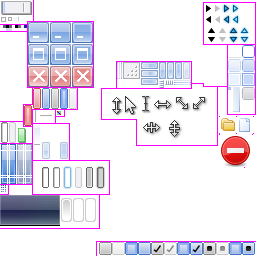
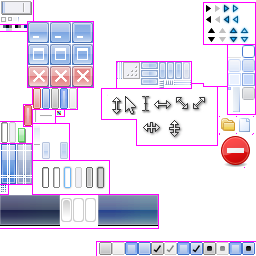
misc

Changed region(s): [[0.375, 0.75, 0.625, 0.9062]]

diff --git a/api/gui.cpp b/api/gui.cpp
@@ -168,6 +168,8 @@ static UIImage menuItemHover		= {{42, 50, 142, 159}, {45, 46, 151, 157}, OS_DRAW
 static UIImage menuItemDragged		= {{18 + 42, 18 + 50, 142, 159}, {18 + 45, 18 + 46, 151, 157}, OS_DRAW_MODE_STRECH};
 
 static UIImage toolbarBackground	= {{0, 0 + 60, 195, 195 + 31}, {0 + 1, 0 + 59, 195 + 1, 195 + 29}, OS_DRAW_MODE_STRECH};
+static UIImage toolbarBackgroundAlt	= {{98 + 0, 98 + 0 + 60, 195, 195 + 31}, {98 + 0 + 1, 98 + 0 + 59, 195 + 1, 195 + 29}, OS_DRAW_MODE_STRECH};
+
 static UIImage toolbarHover		= {{73, 84, 195, 226}, {78, 79, 203, 204}};
 static UIImage toolbarPressed		= {{73 - 12, 84 - 12, 195, 226}, {78 - 12, 79 - 12, 203, 204}};
 static UIImage toolbarNormal		= {{73 + 12, 84 + 12, 195, 226}, {78 + 12, 79 + 12, 203, 204}};
@@ -1441,6 +1443,8 @@ OSCallbackResponse ProcessTextboxMessage(OSObject object, OSMessage *message) {
 
 		int ic = -1, isc = -1;
 
+		result = OS_CALLBACK_HANDLED;
+
 		switch (message->keyboard.scancode) {
 			case OS_SCANCODE_A: ic = 'a'; isc = 'A'; break;
 			case OS_SCANCODE_B: ic = 'b'; isc = 'B'; break;
@@ -1583,6 +1587,10 @@ OSCallbackResponse ProcessTextboxMessage(OSObject object, OSMessage *message) {
 				message.type = OS_MESSAGE_END_LAST_FOCUS;
 				OSSendMessage(control, &message);
 				control->window->lastFocus = nullptr;
+			} break;
+
+			default: {
+				result = OS_CALLBACK_NOT_HANDLED;
 			} break;
 		}
 
@@ -3095,6 +3103,30 @@ static OSCallbackResponse ProcessGridMessage(OSObject _object, OSMessage *messag
 			}
 		} break;
 
+		case OS_MESSAGE_KEY_PRESSED: {
+			if (message->keyboard.scancode == OS_SCANCODE_TAB && !message->keyboard.shift && !message->keyboard.ctrl && !message->keyboard.alt) {
+				OSObject previousFocus = message->keyboard.notHandledBy;
+				uintptr_t i = 0;
+
+				for (; i < grid->columns * grid->rows; i++) {
+					if (grid->objects[i] == previousFocus) {
+						break;
+					}
+				}
+
+				if (i == grid->columns * grid->rows) {
+					i = 0;
+
+					if (grid->columns * grid->rows == 0) {
+						response = OS_CALLBACK_NOT_HANDLED;
+						break;
+					}
+				}
+
+				// TODO Tab traversal.
+			}
+		} break;
+
 		default: {
 			response = OS_CALLBACK_NOT_HANDLED;
 		} break;
@@ -3172,6 +3204,14 @@ OSObject OSCreateGrid(unsigned columns, unsigned rows, OSGridStyle style) {
 			grid->preferredHeight = 31;
 			grid->suggestHeight = true;
 			grid->background = &toolbarBackground;
+		} break;
+
+		case OS_GRID_STYLE_TOOLBAR_ALT: {
+			grid->borderSize = OS_MAKE_RECTANGLE(5, 5, 0, 0);
+			grid->gapSize = 4;
+			grid->preferredHeight = 31;
+			grid->suggestHeight = true;
+			grid->background = &toolbarBackgroundAlt;
 		} break;
 	}
 
@@ -3631,7 +3671,7 @@ OSObject OSCreateScrollbar(bool orientation) {
 	nudgeUp->context = scrollbar;
 	nudgeUp->notificationCallback = OS_MAKE_CALLBACK(ScrollbarButtonPressed, SCROLLBAR_NUDGE_UP);
 	nudgeUp->backgrounds = orientation ? scrollbarTrackVerticalBackgrounds : scrollbarTrackHorizontalBackgrounds;
-	OSSetCallback(nudgeUp, OS_MAKE_CALLBACK(ProcessControlMessage, nullptr));
+	OSSetCallback(nudgeUp, OS_MAKE_CALLBACK(ProcessButtonMessage, nullptr));
 
 	command.callback = OS_MAKE_CALLBACK(ScrollbarButtonPressed, SCROLLBAR_NUDGE_DOWN);
 	Control *nudgeDown = (Control *) OSHeapAllocate(sizeof(Control), true);
@@ -3639,7 +3679,7 @@ OSObject OSCreateScrollbar(bool orientation) {
 	nudgeDown->context = scrollbar;
 	nudgeDown->notificationCallback = OS_MAKE_CALLBACK(ScrollbarButtonPressed, SCROLLBAR_NUDGE_DOWN);
 	nudgeDown->backgrounds = orientation ? scrollbarTrackVerticalBackgrounds : scrollbarTrackHorizontalBackgrounds;
-	OSSetCallback(nudgeDown, OS_MAKE_CALLBACK(ProcessControlMessage, nullptr));
+	OSSetCallback(nudgeDown, OS_MAKE_CALLBACK(ProcessButtonMessage, nullptr));
 
 	command.callback = OS_MAKE_CALLBACK(ScrollbarButtonPressed, SCROLLBAR_BUTTON_UP);
 	Control *up = (Control *) OSCreateButton(&command, OS_BUTTON_STYLE_NORMAL);
@@ -3777,8 +3817,6 @@ static OSCallbackResponse ProcessWindowMessage(OSObject _object, OSMessage *mess
 		} break;
 
 		case OS_MESSAGE_WINDOW_ACTIVATED: {
-			if (!window->created) break;
-
 			for (int i = 0; i < 12; i++) {
 				if (i == 7 || (window->flags & OS_CREATE_WINDOW_MENU)) continue;
 				OSDisableControl(window->root->objects[i], false);
@@ -3793,8 +3831,6 @@ static OSCallbackResponse ProcessWindowMessage(OSObject _object, OSMessage *mess
 		} break;
 
 		case OS_MESSAGE_WINDOW_DEACTIVATED: {
-			if (!window->created) break;
-
 			for (int i = 0; i < 12; i++) {
 				if (i == 7 || (window->flags & OS_CREATE_WINDOW_MENU)) continue;
 				OSDisableControl(window->root->objects[i], true);
@@ -3830,7 +3866,21 @@ static OSCallbackResponse ProcessWindowMessage(OSObject _object, OSMessage *mess
 				EnterDebugger();
 			} else if (window->focus) {
 				message->type = OS_MESSAGE_KEY_TYPED;
-				OSSendMessage(window->focus, message);
+				OSCallbackResponse response = OSSendMessage(window->focus, message);
+
+				Control *control = window->focus;
+				message->keyboard.notHandledBy = nullptr;
+
+				while (response == OS_CALLBACK_NOT_HANDLED && control) {
+					message->type = OS_MESSAGE_KEY_PRESSED;
+					response = OSSendMessage(window->focus, message);
+					message->keyboard.notHandledBy = control;
+					control = (Control *) control->parent;
+				}
+
+				if (response == OS_CALLBACK_NOT_HANDLED) {
+					// TODO Keyboard shortcuts and access keys.
+				}
 			}
 		} break;
 

diff --git a/file_manager/main.cpp b/file_manager/main.cpp
@@ -13,6 +13,7 @@
 #include "../bin/OS/file_manager.manifest.h"
 
 // TODO Move the scrollbar to the top when switching folders.
+// TODO Closing instances.
 
 struct FolderChild {
 	OSDirectoryChild data;
@@ -744,15 +745,17 @@ void Instance::Initialise() {
 	window = OSCreateWindow(mainWindow);
 	OSSetInstance(window, this);
 
-	OSObject rootLayout = OSCreateGrid(1, 4, OS_GRID_STYLE_LAYOUT);
+	OSObject rootLayout = OSCreateGrid(1, 6, OS_GRID_STYLE_LAYOUT);
 	OSObject contentSplit = OSCreateGrid(3, 1, OS_GRID_STYLE_LAYOUT);
-	OSObject toolbar = OSCreateGrid(6, 1, OS_GRID_STYLE_TOOLBAR);
+	OSObject toolbar1 = OSCreateGrid(5, 1, OS_GRID_STYLE_TOOLBAR);
+	OSObject toolbar2 = OSCreateGrid(1, 1, OS_GRID_STYLE_TOOLBAR_ALT);
 	OSObject statusBar = OSCreateGrid(2, 1, OS_GRID_STYLE_STATUS_BAR);
 
 	OSSetRootGrid(window, rootLayout);
-	OSAddGrid(rootLayout, 0, 2, contentSplit, OS_CELL_FILL);
-	OSAddGrid(rootLayout, 0, 0, toolbar, OS_CELL_H_EXPAND | OS_CELL_H_PUSH);
-	OSAddGrid(rootLayout, 0, 3, statusBar, OS_CELL_H_EXPAND | OS_CELL_H_PUSH);
+	OSAddGrid(rootLayout, 0, 3, contentSplit, OS_CELL_FILL);
+	OSAddGrid(rootLayout, 0, 0, toolbar1, OS_CELL_H_EXPAND | OS_CELL_H_PUSH);
+	OSAddGrid(rootLayout, 0, 1, toolbar2, OS_CELL_H_EXPAND | OS_CELL_H_PUSH);
+	OSAddGrid(rootLayout, 0, 5, statusBar, OS_CELL_H_EXPAND | OS_CELL_H_PUSH);
 
 	bookmarkList = OSCreateListView(OS_CREATE_LIST_VIEW_SINGLE_SELECT);
 	OSAddControl(contentSplit, 0, 0, bookmarkList, OS_CELL_H_EXPAND | OS_CELL_V_EXPAND);
@@ -768,20 +771,21 @@ void Instance::Initialise() {
 	OSAddControl(contentSplit, 1, 0, OSCreateLine(OS_ORIENTATION_VERTICAL), OS_CELL_V_EXPAND | OS_CELL_V_PUSH);
 
 	OSObject backButton = OSCreateButton(commandNavigateBackwards, OS_BUTTON_STYLE_TOOLBAR);
-	OSAddControl(toolbar, 0, 0, backButton, OS_CELL_V_CENTER | OS_CELL_V_PUSH);
+	OSAddControl(toolbar1, 0, 0, backButton, OS_CELL_V_CENTER | OS_CELL_V_PUSH);
 	OSObject forwardButton = OSCreateButton(commandNavigateForwards, OS_BUTTON_STYLE_TOOLBAR_ICON_ONLY);
-	OSAddControl(toolbar, 1, 0, forwardButton, OS_CELL_V_CENTER | OS_CELL_V_PUSH);
+	OSAddControl(toolbar1, 1, 0, forwardButton, OS_CELL_V_CENTER | OS_CELL_V_PUSH);
 	OSObject parentButton = OSCreateButton(commandNavigateParent, OS_BUTTON_STYLE_TOOLBAR_ICON_ONLY);
-	OSAddControl(toolbar, 2, 0, parentButton, OS_CELL_V_CENTER | OS_CELL_V_PUSH);
+	OSAddControl(toolbar1, 2, 0, parentButton, OS_CELL_V_CENTER | OS_CELL_V_PUSH);
 
 	folderPath = OSCreateTextbox(OS_TEXTBOX_STYLE_COMMAND);
 	OSSetControlCommand(folderPath, commandNavigatePath);
-	OSAddControl(toolbar, 3, 0, folderPath, OS_CELL_H_EXPAND | OS_CELL_H_PUSH | OS_CELL_V_CENTER | OS_CELL_V_PUSH);
+	OSAddControl(toolbar1, 3, 0, folderPath, OS_CELL_H_EXPAND | OS_CELL_H_PUSH | OS_CELL_V_CENTER | OS_CELL_V_PUSH);
 
 	OSObject bookmarkFolderButton = OSCreateButton(commandBookmarkFolder, OS_BUTTON_STYLE_TOOLBAR_ICON_ONLY);
-	OSAddControl(toolbar, 4, 0, bookmarkFolderButton, OS_CELL_V_CENTER | OS_CELL_V_PUSH);
+	OSAddControl(toolbar1, 4, 0, bookmarkFolderButton, OS_CELL_V_CENTER | OS_CELL_V_PUSH);
+
 	OSObject newFolderButton = OSCreateButton(commandNewFolder, OS_BUTTON_STYLE_TOOLBAR);
-	OSAddControl(toolbar, 5, 0, newFolderButton, OS_CELL_V_CENTER | OS_CELL_V_PUSH);
+	OSAddControl(toolbar2, 0, 0, newFolderButton, OS_CELL_V_CENTER | OS_CELL_V_PUSH);
 
 	statusLabel = OSCreateLabel(OSLiteral(""));
 	OSAddControl(statusBar, 1, 0, statusLabel, OS_FLAGS_DEFAULT);

diff --git a/util/manifest_parser.cpp b/util/manifest_parser.cpp
@@ -327,6 +327,14 @@ void GenerateDefinitions(Token attribute, Token section, Token name, Token value
 				fprintf(output, "\t.shortcutBytes = 0,\n");
 			}
 
+			if (FindProperty("access", &value)) {
+				fprintf(output, "\t.access = (char *) %.*s,\n", value.bytes, value.text);
+				fprintf(output, "\t.accessBytes = %d,\n", value.bytes - 2);
+			} else {
+				fprintf(output, "\t.access = (char *) \"\",\n");
+				fprintf(output, "\t.accessBytes = 0,\n");
+			}
+
 			if (FindProperty("checkable", &value)) {
 				fprintf(output, "\t.checkable = %.*s,\n", value.bytes, value.text);
 			} else {

diff --git a/api/os.h b/api/os.h
@@ -513,6 +513,7 @@ typedef enum OSGridStyle {
 	OS_GRID_STYLE_CONTAINER_ALT,
 	OS_GRID_STYLE_STATUS_BAR,
 	OS_GRID_STYLE_TOOLBAR,
+	OS_GRID_STYLE_TOOLBAR_ALT,
 } OSGridStyle;
 
 typedef enum OSMessageType {
@@ -632,6 +633,7 @@ typedef struct OSMessage {
 		struct {
 			unsigned scancode; 
 			bool alt, ctrl, shift;
+			OSObject notHandledBy;
 		} keyboard;
 
 		struct {
@@ -753,6 +755,9 @@ typedef struct OSCommand {
 
 	char *shortcut;
 	size_t shortcutBytes;
+
+	char *access;
+	size_t accessBytes;
 
 	uint8_t checkable : 1, 
 		defaultCheck : 1, 
